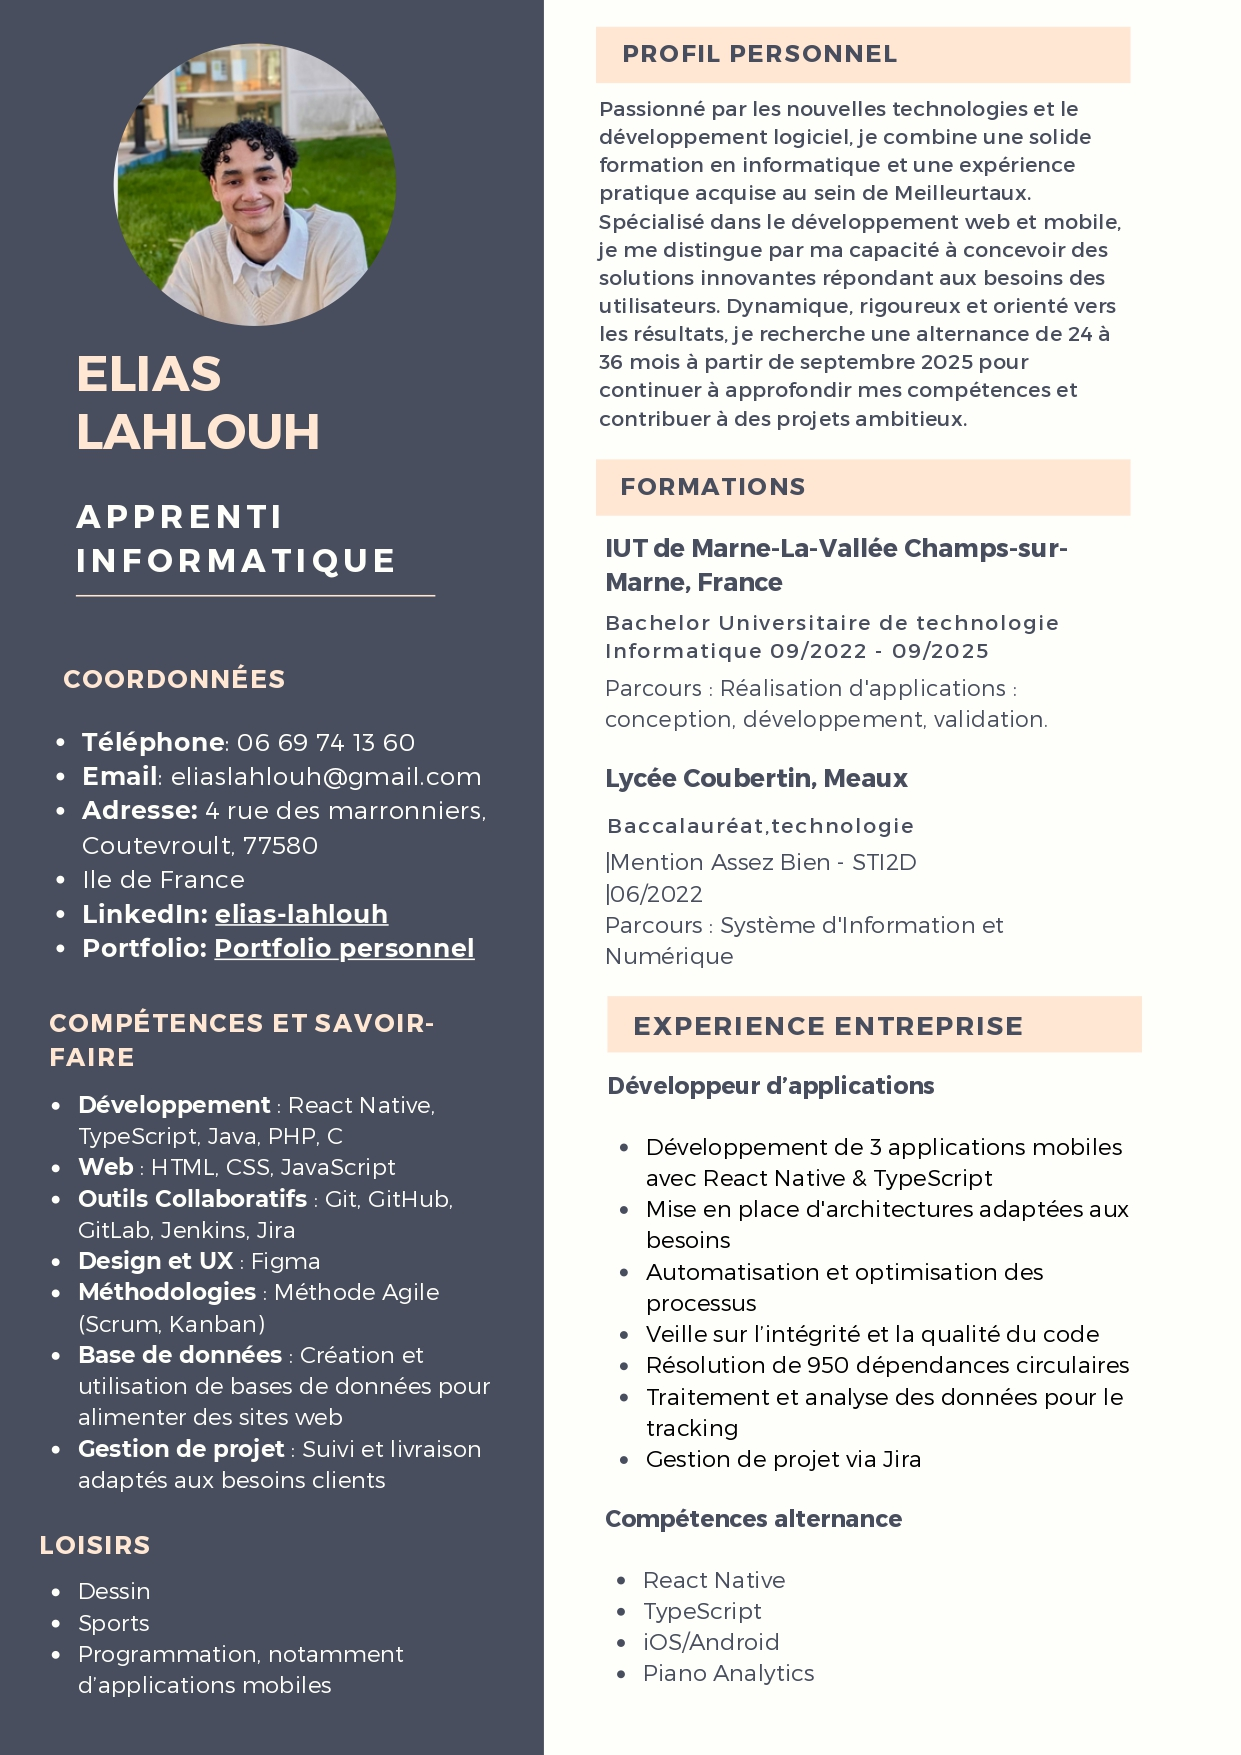
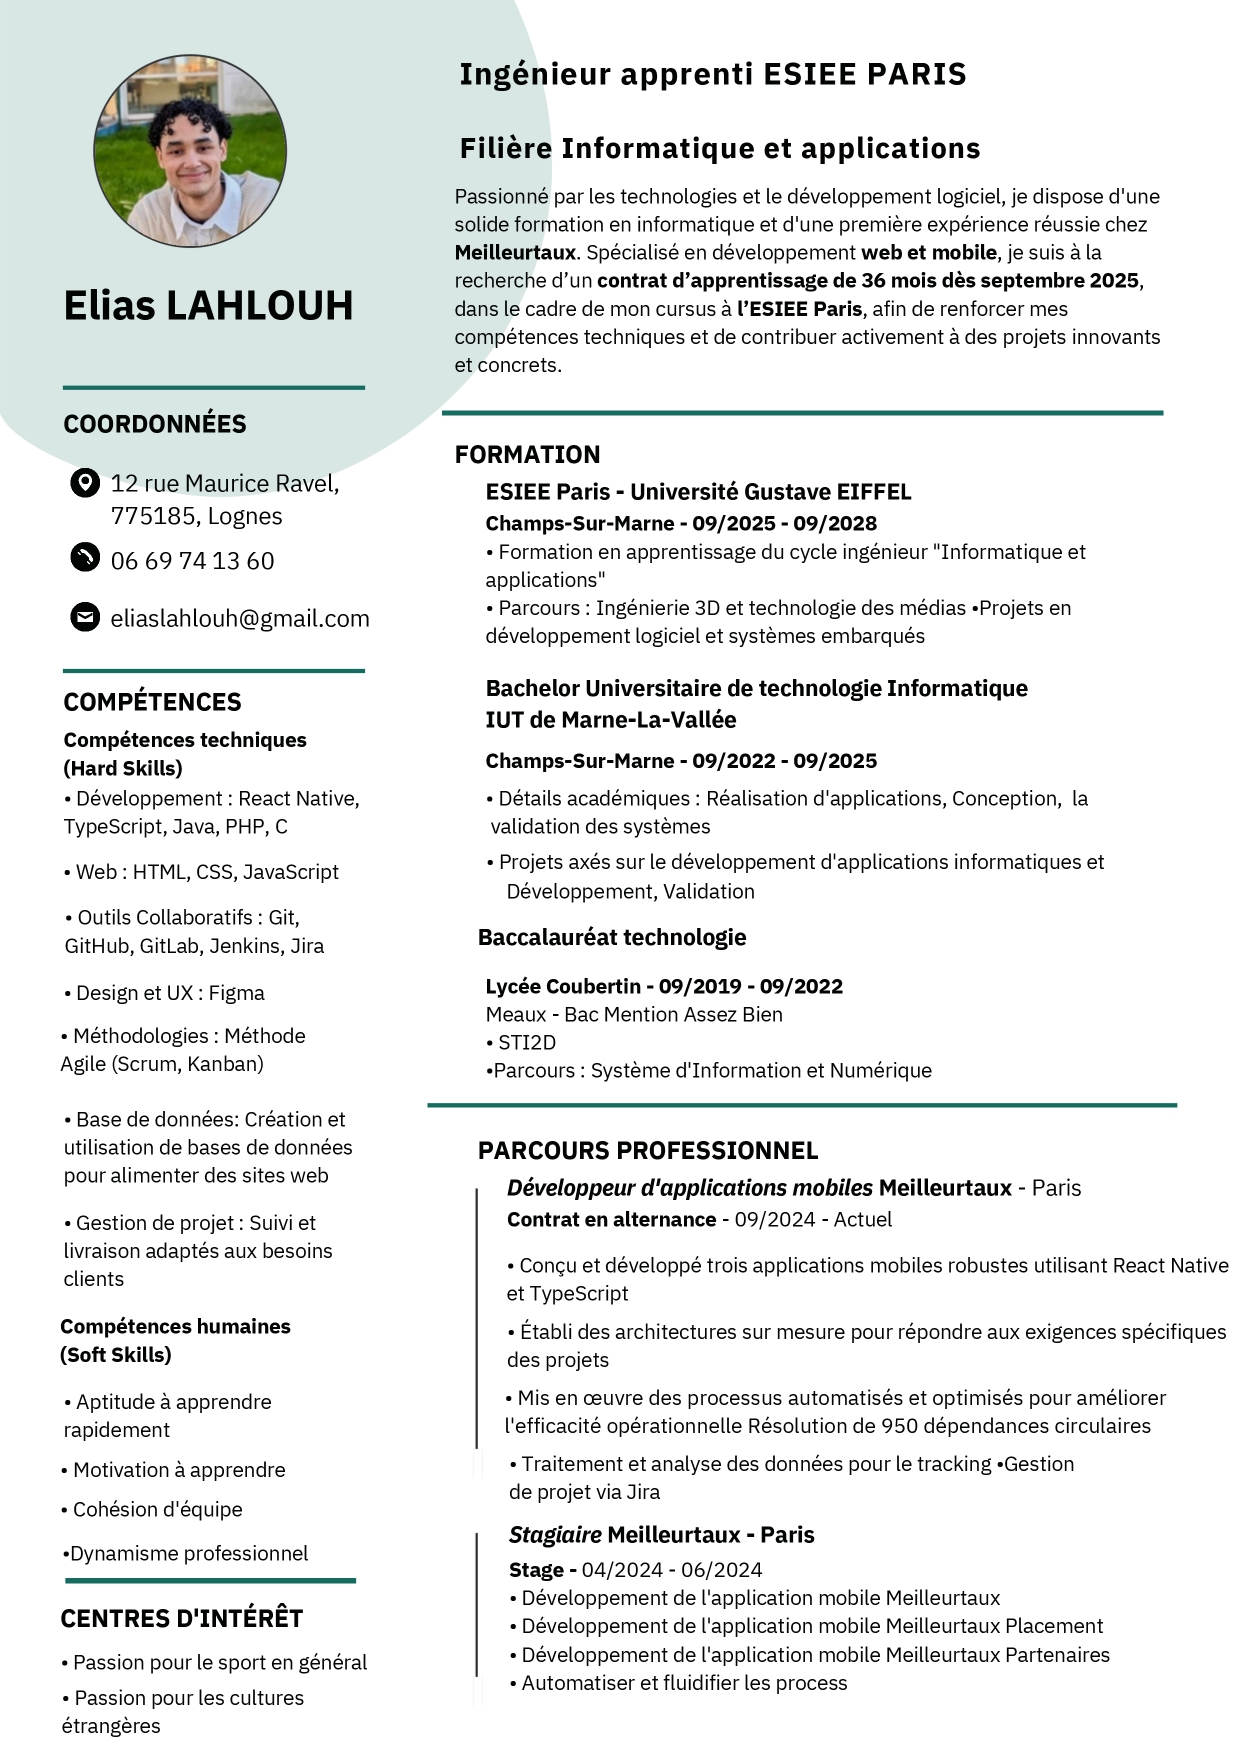
PORTFOLIO | feat: maj portfolio

diff --git a/src/components/resume/Education.js b/src/components/resume/Education.js
@@ -43,7 +43,7 @@ const Career = () => {
           <ResumeCard
             title="IUT Champs-Sur-Marne"
             subTitle="2 Rue Albert Einstein, 77420 Champs-sur-Marne"
-            result="En cours"
+            result="Validé"
             des={
               <>
                 Bachelor Universitaire de Technologie (BUT) Informatique
@@ -67,7 +67,7 @@ const Career = () => {
           <ResumeCard
             title="ESIEE Paris"
             subTitle="Cité Descartes, 2 Bd Blaise Pascal, 93160 Noisy-le-Grand"
-            result="Waiting"
+            result="En cours"
             des={
               <>
                 Ingénierie 3D et technologie des médias
@@ -127,7 +127,7 @@ const Career = () => {
           <ResumeCard
             title="Alternance Meilleurtaux"
             subTitle="36 Rue de Saint-Pétersbourg, 75008 Paris"
-            result="En cours"
+            result="Validé"
             des={
               <>
                 Développement d'une application mobile : du concept à la mise en
@@ -150,23 +150,25 @@ const Career = () => {
             }
           />
           <ResumeCard
-            title="Coming soon"
-            subTitle="Coming soon"
-            result="Coming soon"
+            title="Alternance RATP Smart Systems"
+            subTitle="Gare de Lyon, 75012 Paris - 11 Rue Courat 75020 Paris"
+            result="En cours"
             des={
               <>
-                Coming soon
+                Développement d'applications web sur les sites BonjourRATP et
+                Mappy.
                 <br />
                 <br />
-                Coming soon
+                Alternance de 36 mois au sein de RATP Smart Systems, en tant que
+                développeur front-end.
                 <br />
                 <br />
                 <u>
                   <a
-                    href="Coming soon"
+                    href="https://www.bonjour-ratp.fr/"
                     style={{ color: "rgb(255 1 79 / var(--tw-text-opacity))" }}
                   >
-                    Coming soon
+                    Bonjour RATP
                   </a>
                 </u>
               </>

diff --git a/src/components/contact/ContactLeft.js b/src/components/contact/ContactLeft.js
@@ -1,11 +1,11 @@
-import React from 'react';
+import React from "react";
 import { FaLinkedinIn } from "react-icons/fa";
 import { IoIosSchool } from "react-icons/io";
 import { SiGithub, SiTwitter } from "react-icons/si";
-import { MdMarkEmailRead } from 'react-icons/md';
+import { MdMarkEmailRead } from "react-icons/md";
 import { IoPhonePortraitOutline } from "react-icons/io5";
-import ThreeDModel from './ThreeDModel '; 
-import { lycoris } from '../../assets'; 
+import ThreeDModel from "./ThreeDModel ";
+import { lycoris } from "../../assets";
 
 const ContactLeft = () => {
   return (
@@ -17,7 +17,7 @@ const ContactLeft = () => {
         <h3 className="text-3xl font-bold text-white">Elias LAHLOUH</h3>
         <p className="text-base text-gray-400 flex items-center gap-2">
           <IoIosSchool />
-          <span className="text-lightText">Etudiant en BUT Informatique</span>
+          <span className="text-lightText">Etudiant à l'ESIEE Paris</span>
         </p>
         <p className="text-base text-gray-400 flex items-center gap-2">
           <IoPhonePortraitOutline />
@@ -31,12 +31,20 @@ const ContactLeft = () => {
       <div className="flex flex-col gap-0">
         <div className="flex gap-4">
           <span className="bannerIcon">
-            <a href="https://www.linkedin.com/in/elias-lahlouh-1332a1243/" target="_blank" rel="noopener noreferrer">
+            <a
+              href="https://www.linkedin.com/in/elias-lahlouh-1332a1243/"
+              target="_blank"
+              rel="noopener noreferrer"
+            >
               <FaLinkedinIn />
             </a>
           </span>
           <span className="bannerIcon">
-            <a href="https://github.com/Eliaslhl" target="_blank" rel="noopener noreferrer">
+            <a
+              href="https://github.com/Eliaslhl"
+              target="_blank"
+              rel="noopener noreferrer"
+            >
               <SiGithub />
             </a>
           </span>

diff --git a/src/Server.js b/src/Server.js
@@ -1,10 +1,11 @@
-const express = require('express');
-const nodemailer = require('nodemailer');
-const cors = require('cors');
-const bodyParser = require('body-parser');
+const express = require("express");
+const nodemailer = require("nodemailer");
+const cors = require("cors");
+const bodyParser = require("body-parser");
+require("dotenv").config();
 
 const app = express();
-const port = 5000;
+const port = process.env.PORT || 5000;
 
 // Middleware
 app.use(cors());
@@ -12,29 +13,32 @@ app.use(bodyParser.json());
 
 // Configure your SMTP transport
 const transporter = nodemailer.createTransport({
-  service: 'gmail',
+  service: "gmail",
   auth: {
-    user: 'eliaslahlouh@gmail.com',
-    pass: 'IDK'
-  }
+    user: process.env.EMAIL_USER,
+    pass: process.env.EMAIL_PASS,
+  },
 });
 
 // Handle POST request to send email
-app.post('/send-email', (req, res) => {
+app.post("/send-email", (req, res) => {
   const { username, phoneNumber, email, subject, message } = req.body;
 
   const mailOptions = {
-    from: email,
-    to: 'eliaslahlouh@gmail.com',
-    subject: subject,
-    text: `Nom: ${username}\nTéléphone: ${phoneNumber}\nEmail: ${email}\n\nMessage:\n${message}`
+    from: process.env.EMAIL_USER,
+    to: process.env.EMAIL_USER,
+    replyTo: email,
+    subject: `Portfolio Contact: ${subject}`,
+    text: `Nom: ${username}\nTéléphone: ${phoneNumber}\nEmail: ${email}\n\nMessage:\n${message}`,
   };
 
   transporter.sendMail(mailOptions, (error, info) => {
     if (error) {
+      console.error("Error sending email:", error);
       return res.status(500).send(error.toString());
     }
-    res.status(200).send('Email sent successfully');
+    console.log("Email sent successfully:", info.response);
+    res.status(200).send("Email sent successfully");
   });
 });
 

diff --git a/src/components/banner/LeftBanner.js b/src/components/banner/LeftBanner.js
@@ -1,5 +1,5 @@
-import React from 'react'
-import Media from './Media';
+import React from "react";
+import Media from "./Media";
 
 const LeftBanner = () => {
   return (
@@ -8,16 +8,17 @@ const LeftBanner = () => {
         <h1 className="text-6xl font-bold text-white">
           <span className="text-designColor capitalize">Elias LAHLOUH</span>
         </h1>
-        <h2 className="text-4xl font-bold text-white">
-        </h2>
+        <h2 className="text-4xl font-bold text-white"></h2>
         <p className="text-base font-bodyFont leading-6 tracking-wide">
-        Etudiant à l'IUT de Champs-Sur-Marne.
-        Actuellement en BUT informatique, je souhaite m'orienter vers le monde professionnel de l'informatique, que ce soit dans le développement d'applications mobiles ou le développement web.
+          Etudiant à l'ESIEE Paris. Actuellement en E3FI informatique et
+          applications, je souhaite m'orienter vers le monde professionnel de
+          l'informatique, que ce soit dans le développement d'applications
+          mobiles ou le développement web.
         </p>
         <Media />
       </div>
     </div>
   );
-}
+};
 
-export default LeftBanner
+export default LeftBanner;

diff --git a/src/components/banner/RightBanner.js b/src/components/banner/RightBanner.js
@@ -1,17 +1,17 @@
-import React from 'react'
+import React from "react";
 import { profilePhoto } from "../../assets/index";
 
 const RightBanner = () => {
   return (
     <div className="w-full lgl:w-1/2 flex justify-center items-center relative">
       <img
-        className="w-[300px] h-[400px] lgl:w-[500px] lgl:h-[680px] z-10"
+        className="w-[300px] h-[400px] lgl:w-[500px] lgl:h-[680px] z-10 object-cover object-center"
         src={profilePhoto}
         alt="profilePhoto"
       />
       <div className="absolute bottom-0 w-[350px] h-[300px] lgl:w-[500px] lgl:h-[500px] bg-gradient-to-r from-[#1e2024] to-[#202327] shadow-shadowOne flex justify-center items-center"></div>
     </div>
   );
-}
+};
 
-export default RightBanner
+export default RightBanner;

diff --git a/src/assets/index.js b/src/assets/index.js
@@ -1,7 +1,7 @@
 import logo from "./images/logo.jpeg";
 
 // projects
-import profilePhoto from "./images/profilePhoto.jpg";
+import profilePhoto from "./images/profilePhoto.jpeg";
 import projectOne from "./images/projects/projectOne.png";
 import projectTwo from "./images/projects/projectTwo.png";
 import projectThree from "./images/projects/projectThree.png";

diff --git a/src/components/tesimonial/Testimonial.js b/src/components/tesimonial/Testimonial.js
@@ -6,7 +6,7 @@ const CV = () => {
   const handleDownload = () => {
     const link = document.createElement("a");
     link.href = Elias_lahlouh_CV;
-    link.download = "Elias_lahlouh_CV.pdf";
+    link.download = "Elias_lahlouh_CV.jpg";
     link.click();
   };
 
